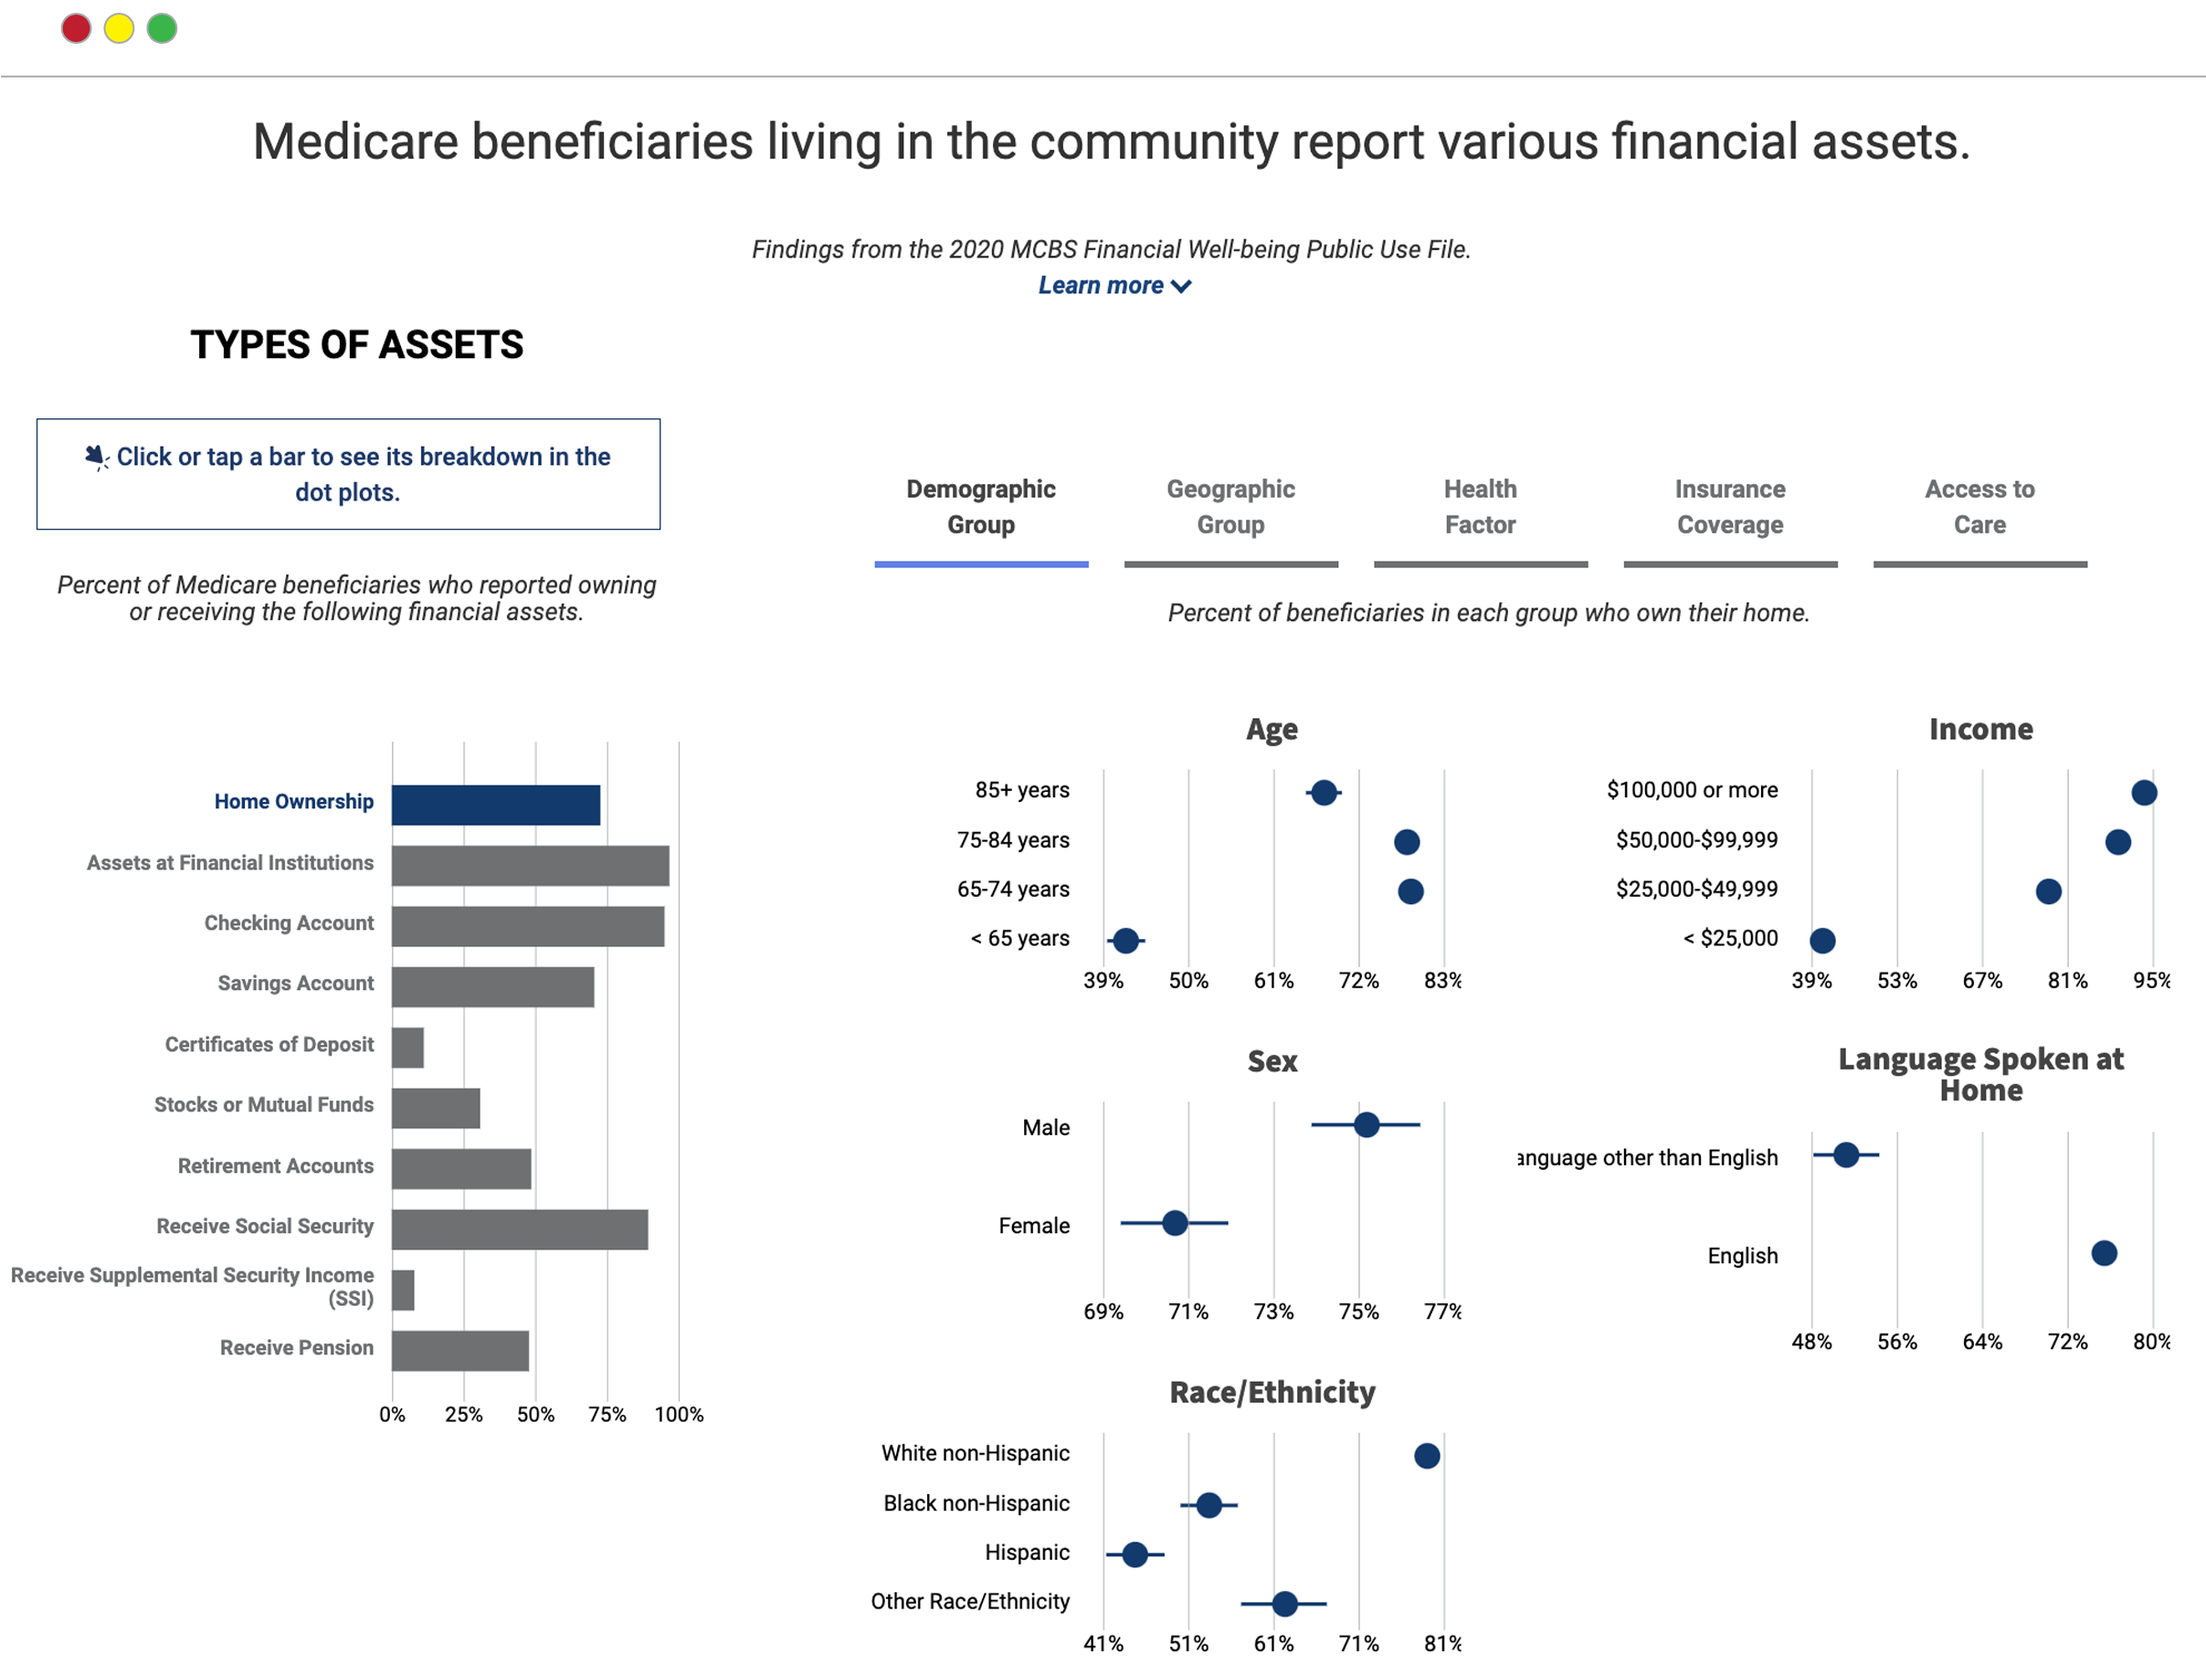
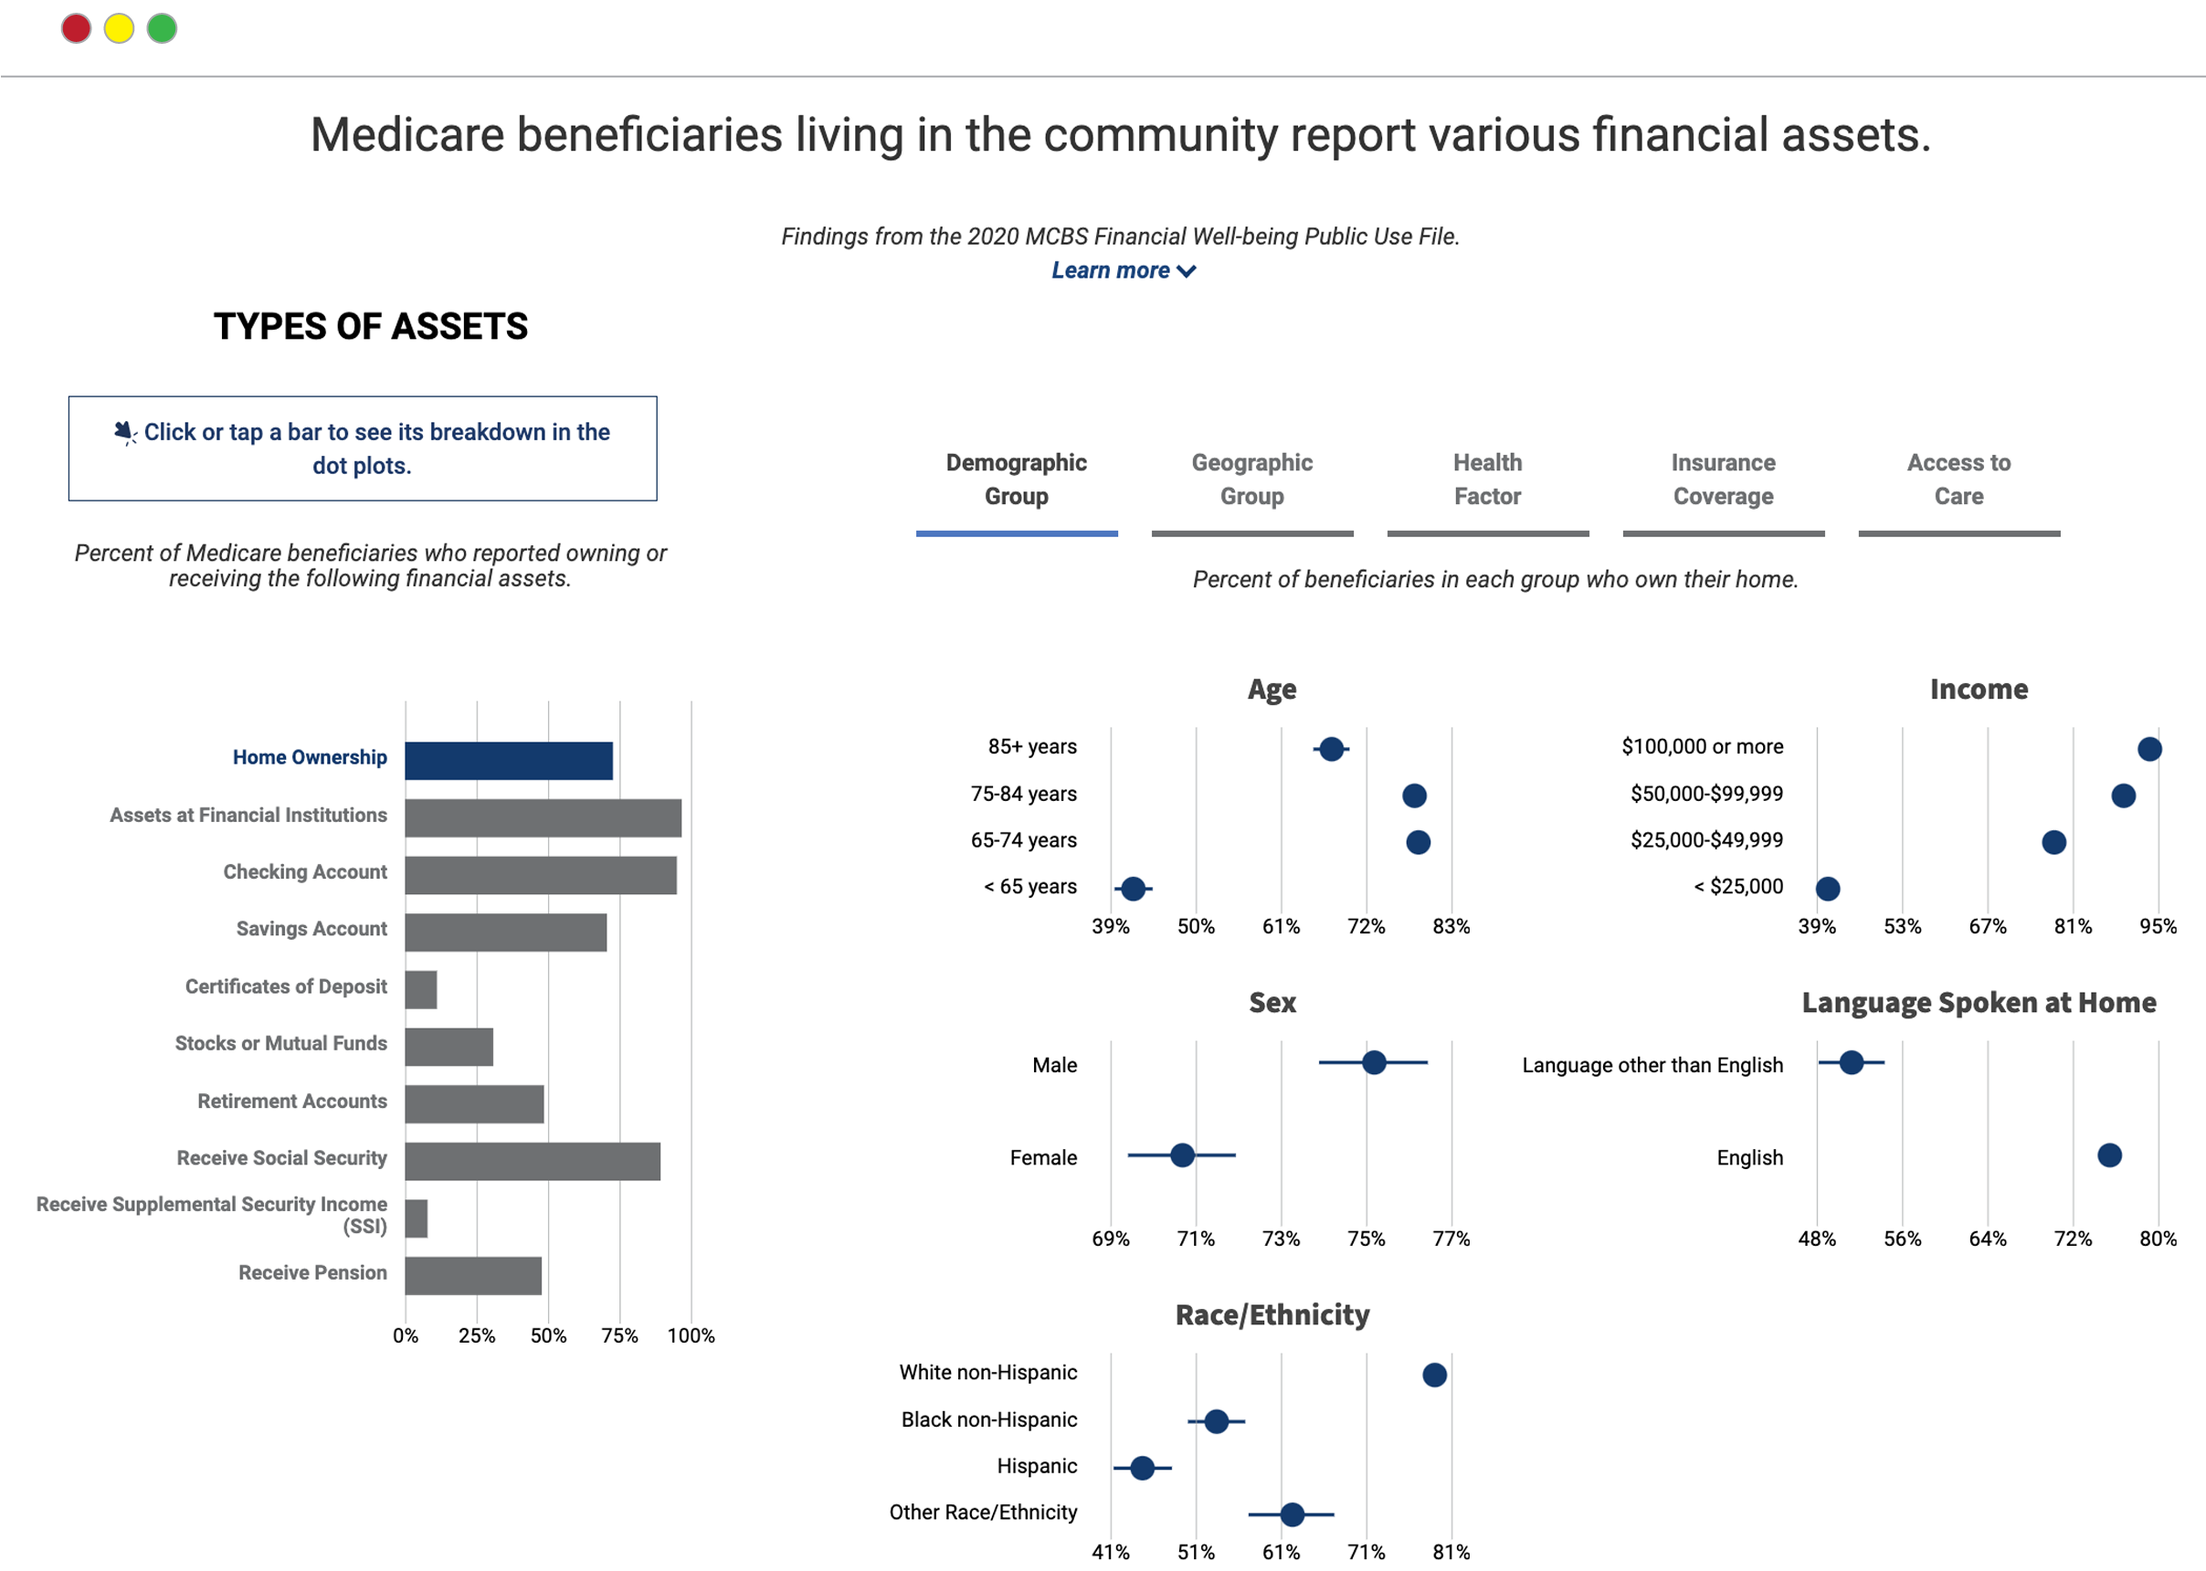
Edited light blue color for contrast, added new screencap for homepage

diff --git a/src/sass/style.scss b/src/sass/style.scss
@@ -8,7 +8,7 @@ $mcbs-green: #317347;
 //$mcbs-gray: #939598;
 $mcbs-gray: #57595b;
 $mcbs-lite-gray: #E6E7E8;
-$mcbs-lite-blue:#99B4E0;
+$mcbs-lite-blue:#4576C6;
 $mcbs-background-gray: #D3DAE4;
 
 //Fonts
